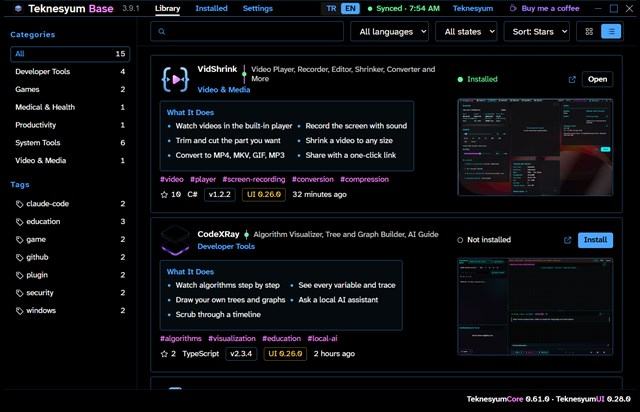
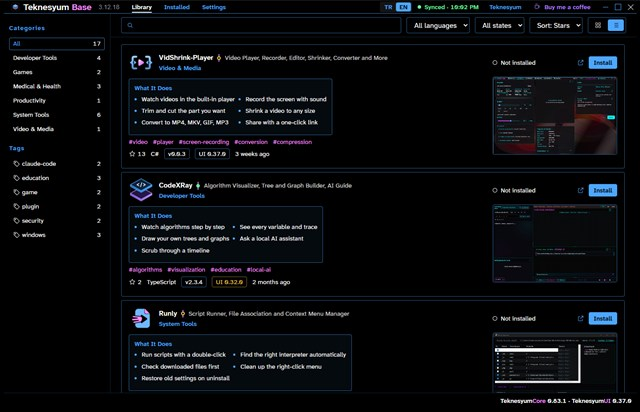
3.12.18: catalog key VidShrink-Player, README keep field, fresh screenshots

diff --git a/README.md b/README.md
@@ -72,7 +72,7 @@ WebView2 is required; Windows 10 and 11 normally have it, and the installer fetc
 
 Base calls the GitHub REST API for the account's repositories, then for each one its latest ten releases and its `teknesyum.json`, if any. Without a token GitHub allows 60 requests an hour; the first refresh of 16 repositories costs about 17. After that Base sends the stored ETag, reuses the releases and manifest of a repository whose last push has not changed, for up to six hours, and a second refresh costs 1. When the limit is reached it keeps showing the cached list with the time the limit resets. In the normal build a personal token raises the limit to 5,000 and is kept in Windows Credential Manager, never in a file.
 
-To install, Base picks the asset named in the manifest, or the first Windows asset by extension. It downloads to a temporary file, checks the SHA-256 when the release publishes one, extracts or runs it, and records what it placed. Updating replaces that record; removing deletes only what was recorded.
+To install, Base picks the asset named in the manifest, or the first Windows asset by extension. It downloads to a temporary file, checks the SHA-256 when the release publishes one, extracts or runs it, and records what it placed. Updating replaces that record, except paths listed in the manifest's `keep` field (such as a `data/` folder), which survive a zip update; removing deletes only what was recorded.
 
 A repository can describe itself with a `.teknesyum/` folder: `teknesyum.json` (the manifest), `icon.png`, `shot.jpg` (screenshot) and `full.jpg` (full-resolution image). Base reads it live from each repository. A catalog index, built hourly by GitHub Actions, is used as a fallback. Example `teknesyum.json`:
 
